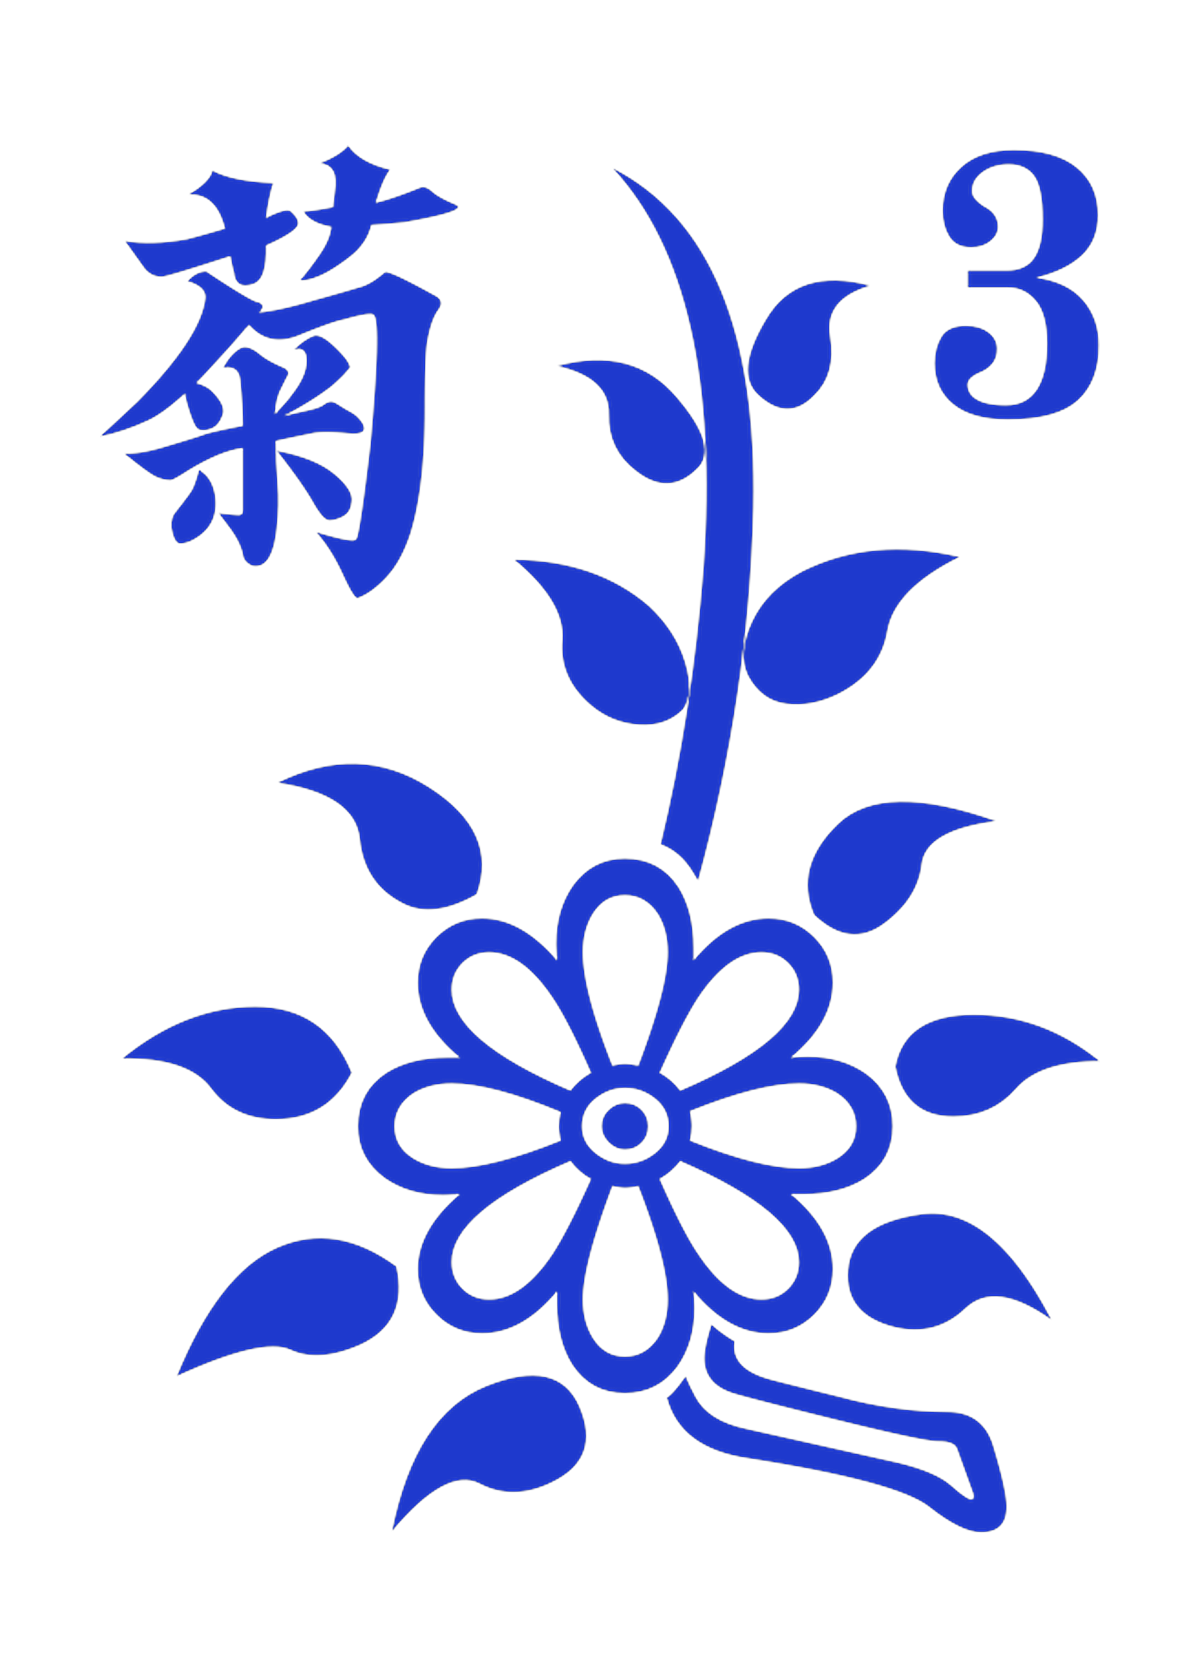
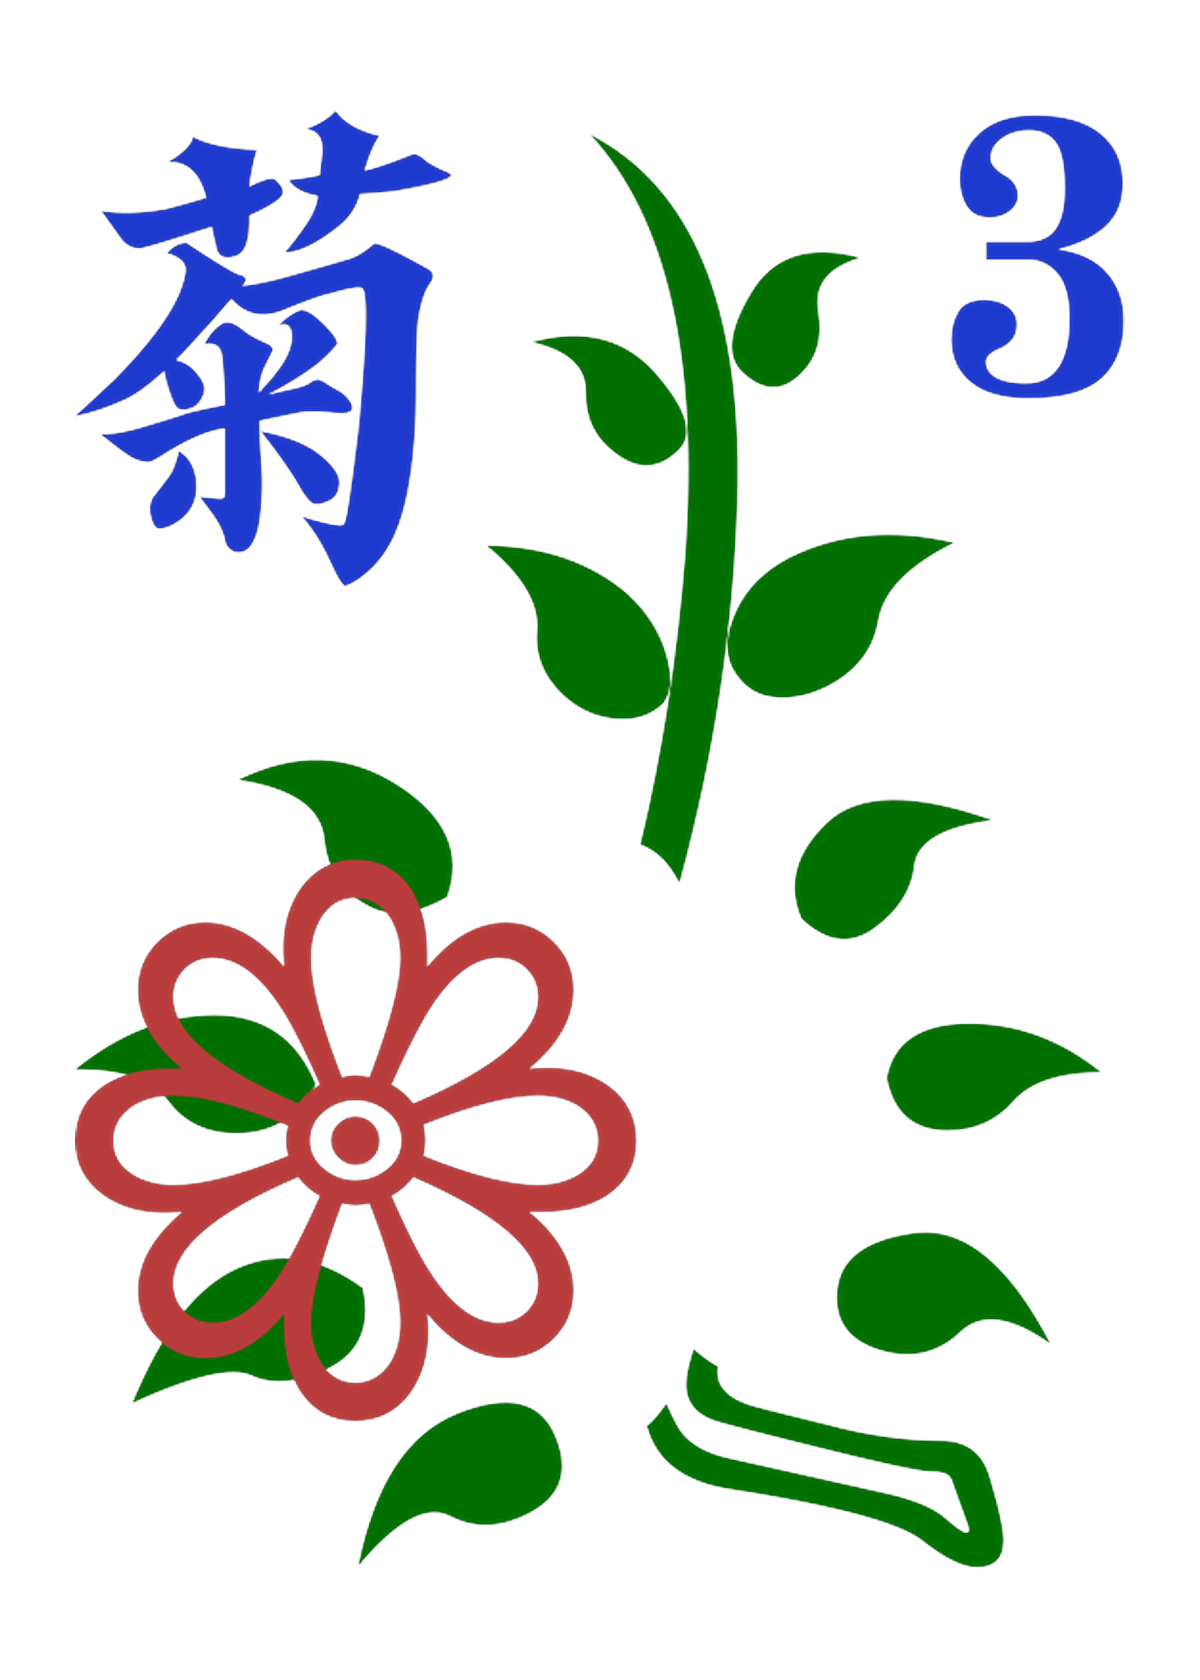
art(preset): recolor hong kong flower tiles with multicolored parts

Changed region(s): [[0.0617, 0.0619, 0.925, 0.9595], [0.0617, 0.0619, 0.37, 0.3714], [0.7708, 0.0619, 0.9558, 0.2476]]

diff --git a/CHANGELOG.md b/CHANGELOG.md
@@ -21,7 +21,7 @@ and this project follows [Semantic Versioning](https://semver.org/spec/v2.0.0.ht
 
 ### Added
 
-- Add built-in Hong Kong tile-face preset with recolored traditional flower engravings and white dragon frame.
+- Add built-in Hong Kong tile-face preset with multicolored traditional flower engravings and white dragon frame.
 - Play a fixed four-player, sixteen-hand MCR match on automatic tables using a complete 144-tile case, recipient-safe controls and separate fan settlement.
 - Add discoverable external Riichi Bot choices with preset matching, server configuration and visible service errors.
 - Add independent MCR physical scenes with offset four-wall geometry, compact six-column rivers, source-marked flat melds and a separate public flower area.
